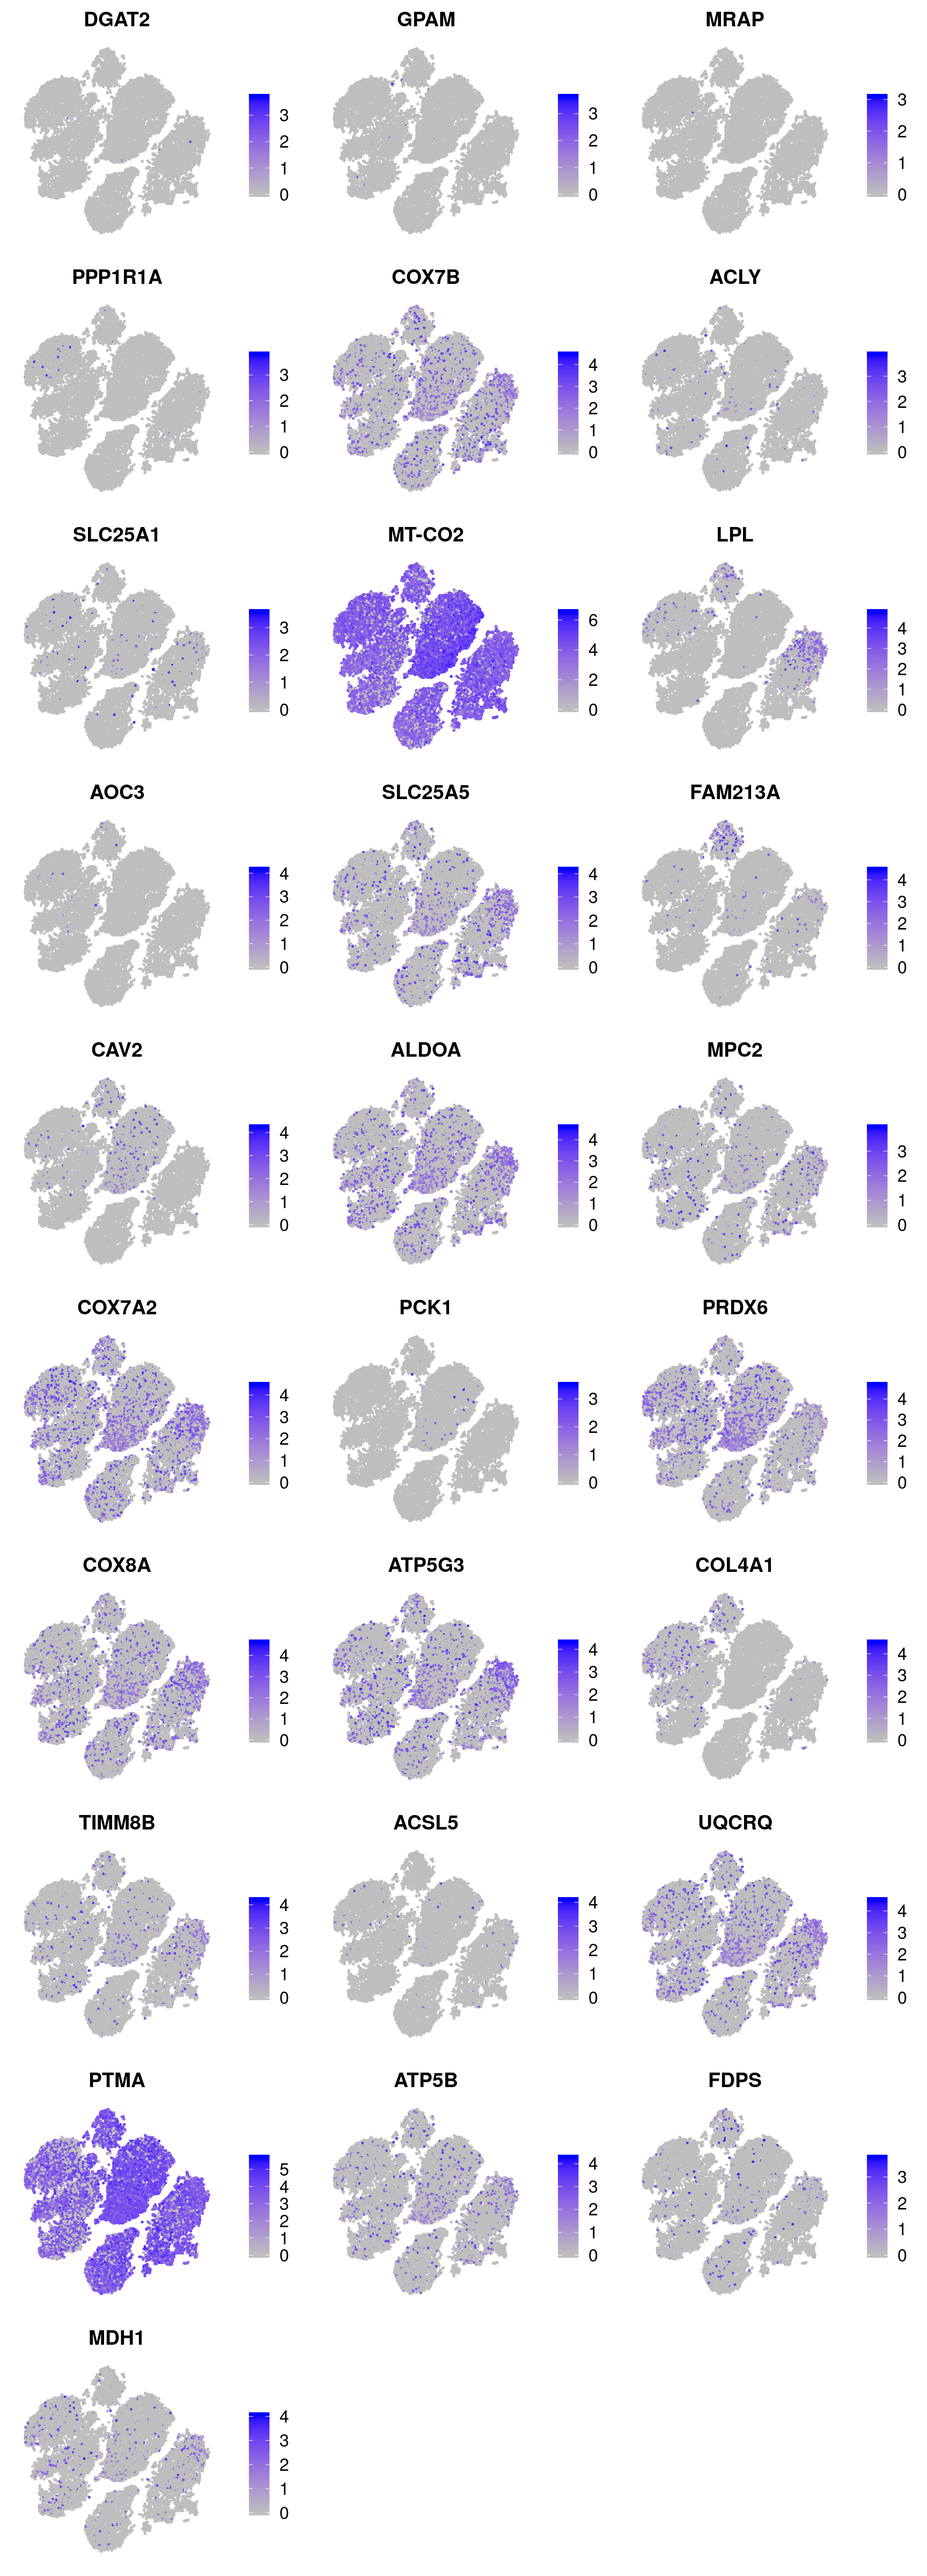
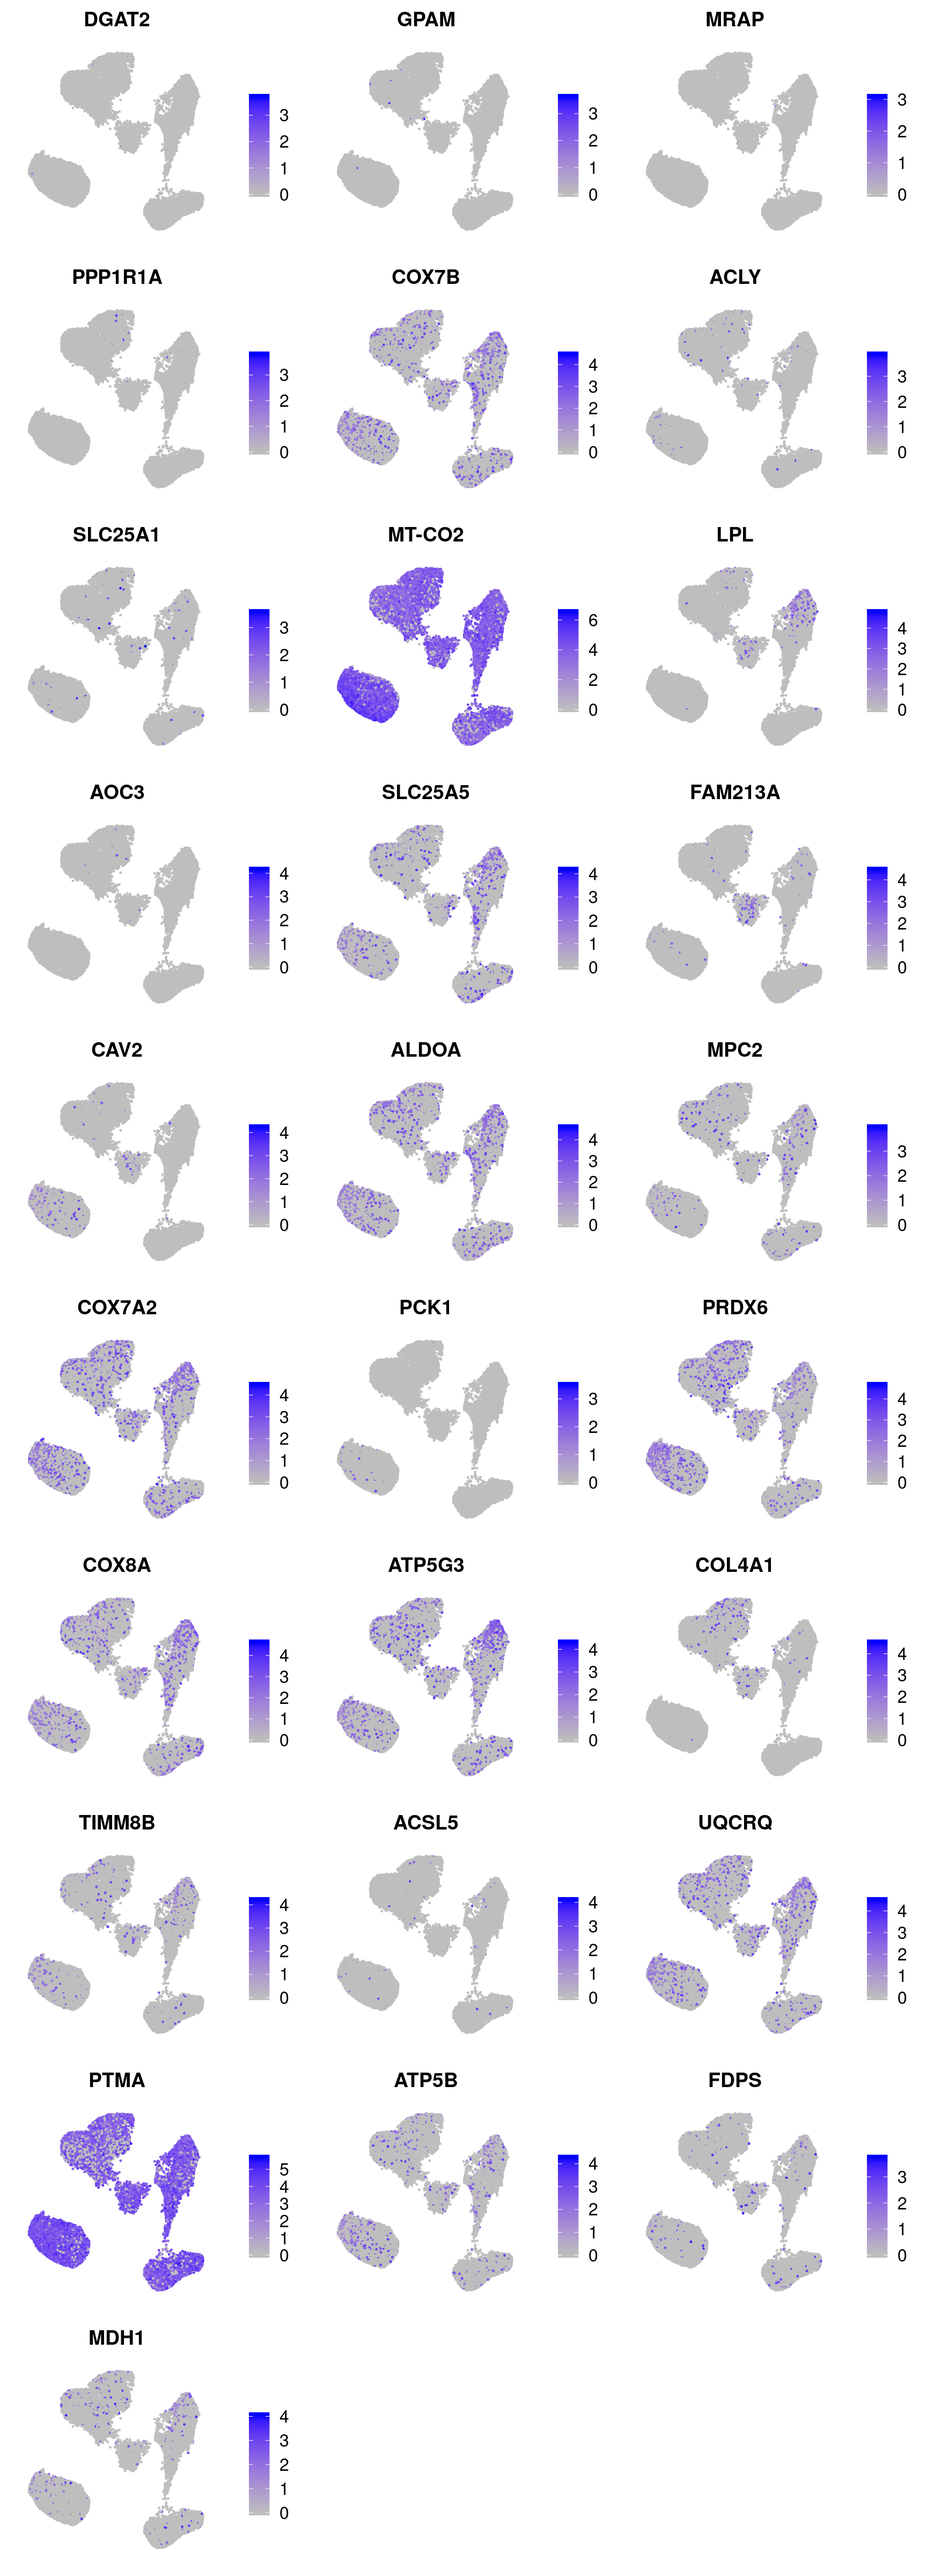
Build site.

diff --git a/docs/vijay_U-L-branch-markers.html b/docs/vijay_U-L-branch-markers.html
@@ -443,7 +443,7 @@ div.section {
 <div class="tab-content">
 <div id="summary" class="tab-pane fade in active">
 <p>
-<strong>Last updated:</strong> 2020-01-23
+<strong>Last updated:</strong> 2020-01-24
 </p>
 <p>
 <strong>Checks:</strong> <span class="glyphicon glyphicon-ok text-success" aria-hidden="true"></span> 6 <span class="glyphicon glyphicon-exclamation-sign text-danger" aria-hidden="true"></span> 0
@@ -522,10 +522,10 @@ This reproducible <a href="http://rmarkdown.rstudio.com">R Markdown</a> analysis
 <div class="panel panel-default">
 <div class="panel-heading">
 <p class="panel-title">
-<a data-toggle="collapse" data-parent="#workflowr-checks" href="#strongRepositoryversionstrongahrefhttpsgithubcompytrikfolkertsma10xadipocyteanalysistree4d2a8d3540ce69677b74611c5ff912f9686f99d6targetblank4d2a8d3a"> <span class="glyphicon glyphicon-ok text-success" aria-hidden="true"></span> <strong>Repository version:</strong> <a href="https://github.com/pytrikfolkertsma/10x-adipocyte-analysis/tree/4d2a8d3540ce69677b74611c5ff912f9686f99d6" target="_blank">4d2a8d3</a> </a>
+<a data-toggle="collapse" data-parent="#workflowr-checks" href="#strongRepositoryversionstrongahrefhttpsgithubcompytrikfolkertsma10xadipocyteanalysistreec880351f825e4d693c877b26e7809ed5686c8443targetblankc880351a"> <span class="glyphicon glyphicon-ok text-success" aria-hidden="true"></span> <strong>Repository version:</strong> <a href="https://github.com/pytrikfolkertsma/10x-adipocyte-analysis/tree/c880351f825e4d693c877b26e7809ed5686c8443" target="_blank">c880351</a> </a>
 </p>
 </div>
[2 lines of base64/hex data omitted]
 <div class="panel-body">
 <p>
 Great! You are using Git for version control. Tracking code development and connecting the code version to the results is critical for reproducibility. The version displayed above was the version of the Git repository at the time these results were generated. <br><br> Note that you need to be careful to ensure that all relevant files for the analysis have been committed to Git prior to generating the results (you can use <code>wflow_publish</code> or <code>wflow_git_commit</code>). workflowr only checks the R Markdown file, but you know if there are other scripts or data files that it depends on. Below is the status of the Git repository when the results were generated:
@@ -610,6 +610,40 @@ Message
 </tr>
 </thead>
 <tbody>
+<tr>
+<td>
+Rmd
+</td>
+<td>
+<a href="https://github.com/pytrikfolkertsma/10x-adipocyte-analysis/blob/c880351f825e4d693c877b26e7809ed5686c8443/analysis/vijay_U-L-branch-markers.Rmd" target="_blank">c880351</a>
+</td>
+<td>
+Pytrik Folkertsma
+</td>
+<td>
+2020-01-24
+</td>
+<td>
+wflow_publish(c(“analysis/vijay_U-L-branch-markers.Rmd”))
+</td>
+</tr>
+<tr>
+<td>
+html
+</td>
+<td>
+<a href="https://rawcdn.githack.com/pytrikfolkertsma/10x-adipocyte-analysis/f3a9239b5fb2321808d454234cd2d0fe50f2f31c/docs/vijay_U-L-branch-markers.html" target="_blank">f3a9239</a>
+</td>
+<td>
+Pytrik Folkertsma
+</td>
+<td>
+2020-01-23
+</td>
+<td>
+Build site.
+</td>
+</tr>
 <tr>
 <td>
 Rmd
@@ -705,7 +739,7 @@ markers &lt;- read.table(&#39;/projects/pytrik/sc_adipose/analyze_10x_fluidigm/1
 markers_u &lt;- markers_u[order(-markers_u$avg_logFC),]</code></pre>
 <p>Top 56 markers for U branch sorted on logFC.</p>
 <pre class="r"><code>grids &lt;- plot_featureplots(vijay, markergenes=markers_u, dir=&#39;/projects/pytrik/sc_adipose/analyze_10x_fluidigm/10x-adipocyte-analysis/figures/figures_paper/supplementary_figures/vijay/u_l_branch_markers/all_data/&#39;, branch=&#39;U_branch&#39;)</code></pre>
-<pre class="r"><code>TSNEPlot(vijay, features=&#39;celltype&#39;, label=T)</code></pre>
+<pre class="r"><code>UMAPPlot(vijay, features=&#39;celltype&#39;, label=T)</code></pre>
 <pre><code>The following functions and any applicable methods accept the dots: CombinePlots</code></pre>
 <p><img src="figure/vijay_U-L-branch-markers.Rmd/unnamed-chunk-6-1.png" width="672" style="display: block; margin: auto;" /></p>
 <p>
@@ -730,6 +764,17 @@ Date
 </tr>
 </thead>
 <tbody>
+<tr>
+<td>
+<a href="https://github.com/pytrikfolkertsma/10x-adipocyte-analysis/blob/f3a9239b5fb2321808d454234cd2d0fe50f2f31c/docs/figure/vijay_U-L-branch-markers.Rmd/unnamed-chunk-6-1.png" target="_blank">f3a9239</a>
+</td>
+<td>
+Pytrik Folkertsma
+</td>
+<td>
+2020-01-23
+</td>
+</tr>
 <tr>
 <td>
 <a href="https://github.com/pytrikfolkertsma/10x-adipocyte-analysis/blob/d411e511b9693b0dc6f3b983d027c688a29018f1/docs/figure/vijay_U-L-branch-markers.Rmd/unnamed-chunk-6-1.png" target="_blank">d411e51</a>
@@ -771,6 +816,17 @@ Date
 <tbody>
 <tr>
 <td>
+<a href="https://github.com/pytrikfolkertsma/10x-adipocyte-analysis/blob/f3a9239b5fb2321808d454234cd2d0fe50f2f31c/docs/figure/vijay_U-L-branch-markers.Rmd/unnamed-chunk-7-1.png" target="_blank">f3a9239</a>
+</td>
+<td>
+Pytrik Folkertsma
+</td>
+<td>
+2020-01-23
+</td>
+</tr>
+<tr>
+<td>
 <a href="https://github.com/pytrikfolkertsma/10x-adipocyte-analysis/blob/d411e511b9693b0dc6f3b983d027c688a29018f1/docs/figure/vijay_U-L-branch-markers.Rmd/unnamed-chunk-7-1.png" target="_blank">d411e51</a>
 </td>
 <td>
@@ -786,6 +842,43 @@ Pytrik Folkertsma
 </div>
 <pre class="r"><code>grids[[2]]</code></pre>
 <p><img src="figure/vijay_U-L-branch-markers.Rmd/unnamed-chunk-8-1.png" width="864" style="display: block; margin: auto;" /></p>
+<p>
+<button type="button" class="btn btn-default btn-xs btn-workflowr btn-workflowr-fig" data-toggle="collapse" data-target="#fig-unnamed-chunk-8-1">
+Past versions of unnamed-chunk-8-1.png
+</button>
+</p>
+<div id="fig-unnamed-chunk-8-1" class="collapse">
+<div class="table-responsive">
+<table class="table table-condensed table-hover">
+<thead>
+<tr>
+<th>
+Version
+</th>
+<th>
+Author
+</th>
+<th>
+Date
+</th>
+</tr>
+</thead>
+<tbody>
+<tr>
+<td>
+<a href="https://github.com/pytrikfolkertsma/10x-adipocyte-analysis/blob/f3a9239b5fb2321808d454234cd2d0fe50f2f31c/docs/figure/vijay_U-L-branch-markers.Rmd/unnamed-chunk-8-1.png" target="_blank">f3a9239</a>
+</td>
+<td>
+Pytrik Folkertsma
+</td>
+<td>
+2020-01-23
+</td>
+</tr>
+</tbody>
+</table>
+</div>
+</div>
 <p>#L branch marker genes all vijay data</p>
 <pre class="r"><code>markers_l &lt;- markers[markers$avg_logFC &lt; 0,]
 markers_l &lt;- markers_l[order(markers_l$avg_logFC),]</code></pre>
@@ -793,7 +886,7 @@ markers_l &lt;- markers_l[order(markers_l$avg_logFC),]</code></pre>
 <pre class="r"><code>grids &lt;- plot_featureplots(vijay, markergenes=markers_l, dir=&#39;/projects/pytrik/sc_adipose/analyze_10x_fluidigm/10x-adipocyte-analysis/figures/figures_paper/supplementary_figures/vijay/u_l_branch_markers/all_data&#39;, branch=&#39;L_branch&#39;)</code></pre>
 <pre><code>Warning in FetchData(object = object, vars = c(dims, &quot;ident&quot;, features), :
 The following requested variables were not found: RP11-572C15.6, PPAP2B</code></pre>
-<pre class="r"><code>TSNEPlot(vijay, features=&#39;celltype&#39;, label=T)</code></pre>
+<pre class="r"><code>UMAPPlot(vijay, features=&#39;celltype&#39;, label=T)</code></pre>
 <pre><code>The following functions and any applicable methods accept the dots: CombinePlots</code></pre>
 <p><img src="figure/vijay_U-L-branch-markers.Rmd/unnamed-chunk-11-1.png" width="672" style="display: block; margin: auto;" /></p>
 <p>
@@ -820,6 +913,17 @@ Date
 <tbody>
 <tr>
 <td>
+<a href="https://github.com/pytrikfolkertsma/10x-adipocyte-analysis/blob/f3a9239b5fb2321808d454234cd2d0fe50f2f31c/docs/figure/vijay_U-L-branch-markers.Rmd/unnamed-chunk-11-1.png" target="_blank">f3a9239</a>
+</td>
+<td>
+Pytrik Folkertsma
+</td>
+<td>
+2020-01-23
+</td>
+</tr>
+<tr>
+<td>
 <a href="https://github.com/pytrikfolkertsma/10x-adipocyte-analysis/blob/d411e511b9693b0dc6f3b983d027c688a29018f1/docs/figure/vijay_U-L-branch-markers.Rmd/unnamed-chunk-11-1.png" target="_blank">d411e51</a>
 </td>
 <td>
@@ -835,8 +939,83 @@ Pytrik Folkertsma
 </div>
 <pre class="r"><code>grids[[1]]</code></pre>
 <p><img src="figure/vijay_U-L-branch-markers.Rmd/unnamed-chunk-12-1.png" width="864" style="display: block; margin: auto;" /></p>
+<p>
+<button type="button" class="btn btn-default btn-xs btn-workflowr btn-workflowr-fig" data-toggle="collapse" data-target="#fig-unnamed-chunk-12-1">
+Past versions of unnamed-chunk-12-1.png
+</button>
+</p>
+<div id="fig-unnamed-chunk-12-1" class="collapse">
+<div class="table-responsive">
+<table class="table table-condensed table-hover">
+<thead>
+<tr>
+<th>
+Version
+</th>
+<th>
+Author
+</th>
+<th>
+Date
+</th>
+</tr>
+</thead>
+<tbody>
+<tr>
+<td>
+<a href="https://github.com/pytrikfolkertsma/10x-adipocyte-analysis/blob/f3a9239b5fb2321808d454234cd2d0fe50f2f31c/docs/figure/vijay_U-L-branch-markers.Rmd/unnamed-chunk-12-1.png" target="_blank">f3a9239</a>
+</td>
+<td>
+Pytrik Folkertsma
+</td>
+<td>
+2020-01-23
+</td>
+</tr>
+</tbody>
+</table>
+</div>
+</div>
 <pre class="r"><code>grids[[2]]</code></pre>
-<img src="figure/vijay_U-L-branch-markers.Rmd/unnamed-chunk-13-1.png" width="864" style="display: block; margin: auto;" /> <br> <br>
+<p><img src="figure/vijay_U-L-branch-markers.Rmd/unnamed-chunk-13-1.png" width="864" style="display: block; margin: auto;" /></p>
+<p>
+<button type="button" class="btn btn-default btn-xs btn-workflowr btn-workflowr-fig" data-toggle="collapse" data-target="#fig-unnamed-chunk-13-1">
+Past versions of unnamed-chunk-13-1.png
+</button>
+</p>
+<div id="fig-unnamed-chunk-13-1" class="collapse">
+<div class="table-responsive">
+<table class="table table-condensed table-hover">
+<thead>
+<tr>
+<th>
+Version
+</th>
+<th>
+Author
+</th>
+<th>
+Date
+</th>
+</tr>
+</thead>
+<tbody>
+<tr>
+<td>
+<a href="https://github.com/pytrikfolkertsma/10x-adipocyte-analysis/blob/f3a9239b5fb2321808d454234cd2d0fe50f2f31c/docs/figure/vijay_U-L-branch-markers.Rmd/unnamed-chunk-13-1.png" target="_blank">f3a9239</a>
+</td>
+<td>
+Pytrik Folkertsma
+</td>
+<td>
+2020-01-23
+</td>
+</tr>
+</tbody>
+</table>
+</div>
+</div>
+<br> <br>
 <p>
 <button type="button" class="btn btn-default btn-workflowr btn-workflowr-sessioninfo" data-toggle="collapse" data-target="#workflowr-sessioninfo" style="display: block;">
 <span class="glyphicon glyphicon-wrench" aria-hidden="true"></span> Session information
